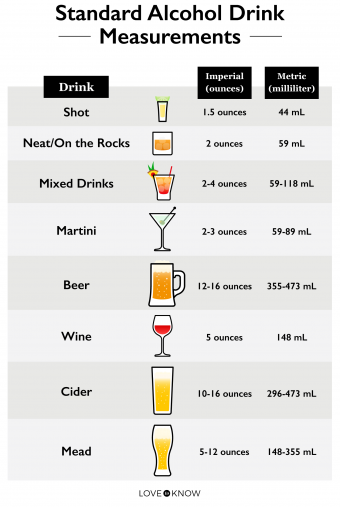
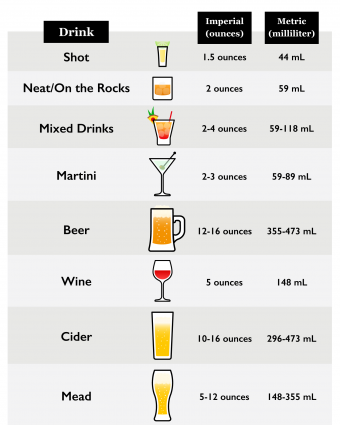
Added Curious Rosie without shadow, adjusted standard drink sizes chart

diff --git a/components/styles.js b/components/styles.js
@@ -125,7 +125,7 @@ export const styles = StyleSheet.create({
   // Image
   standardDrinkImg: {
     width: 340,
-    height: 507,
+    height: 425,
     marginTop: '5%'
   },
   // For buttons on Alcohol Types page
